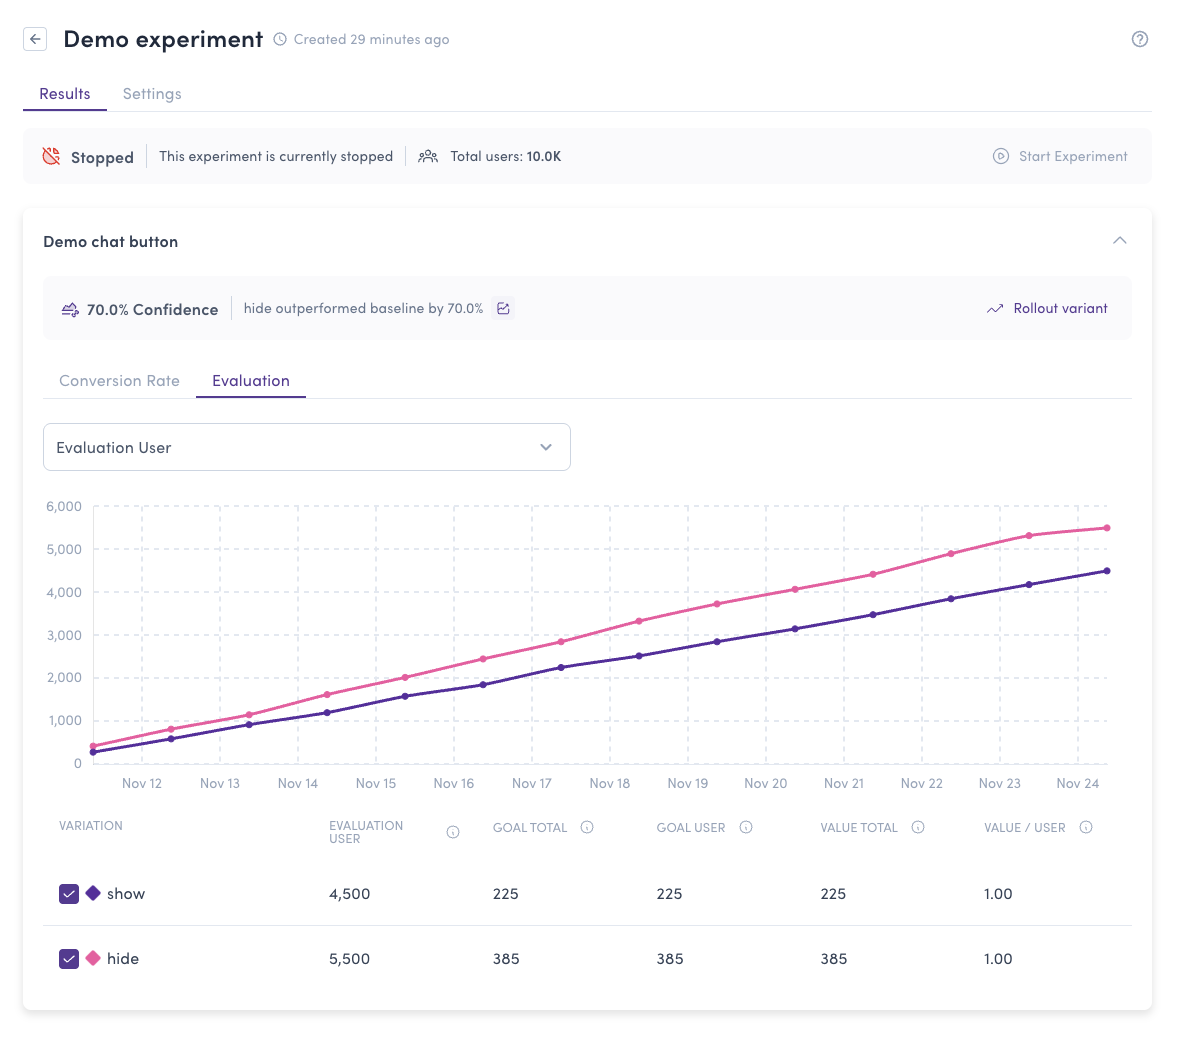
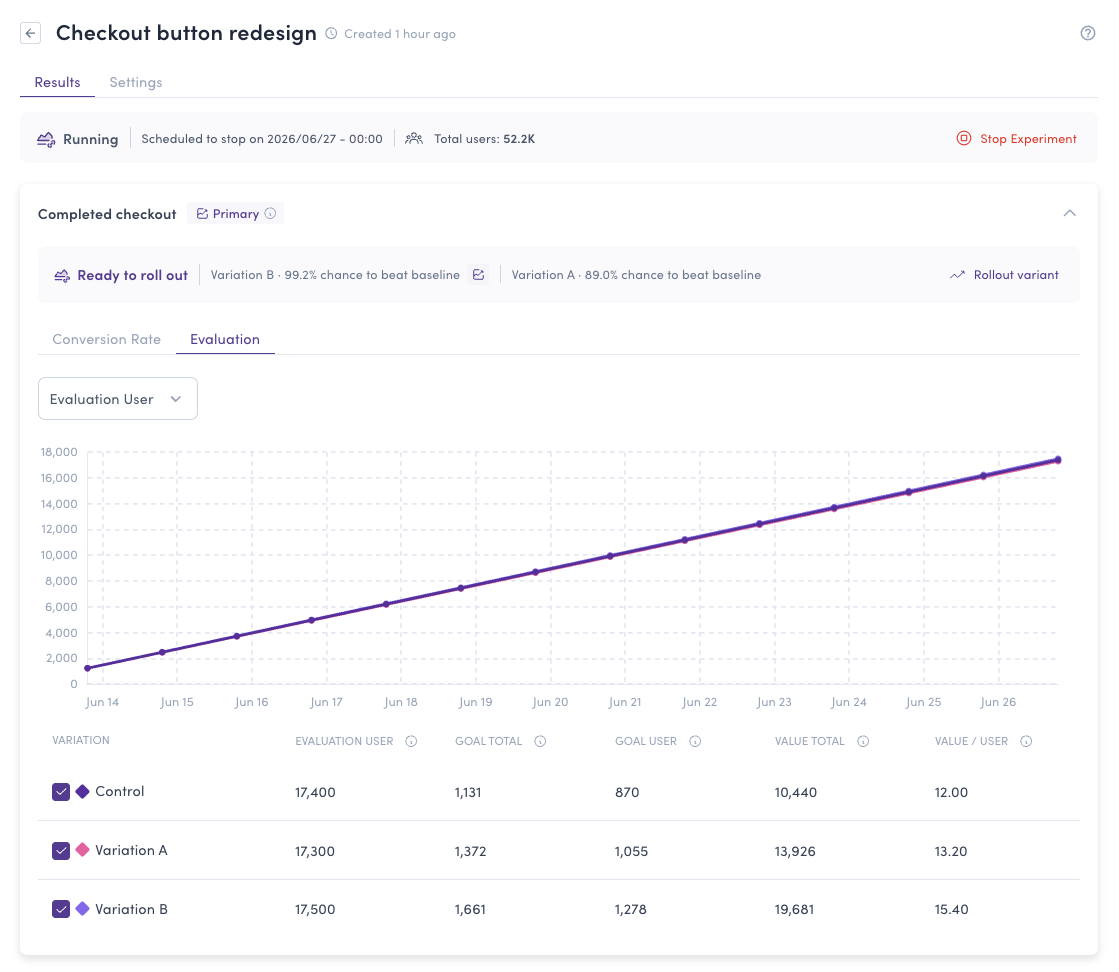
docs: update experiment docs (#296)

Pull request: docs: update experiment docs

diff --git a/docs/experimentation/using-experiments.md b/docs/experimentation/using-experiments.md
@@ -30,11 +30,12 @@ The experiment result page provides comprehensive data to help you make informed
 
 ### Page Components
 
-1. **Experiment header**: Shows the current state (Waiting, Running, Stopped) and evaluation period
-2. **Goal selector**: Choose which goal to analyze if you have multiple goals
-3. **Evaluation data table**: View user and event counts for each variation
-4. **Conversion data table**: Compare performance metrics across variations using Bayesian inference
-5. **Data visualization chart**: Track trends over time for any metric
+1. **Experiment header**: Shows the current state (Waiting, Running, Stopped), the evaluation period, and the total number of users in the experiment
+2. **Traffic allocation check (SRM)**: A diagnostic banner that warns you if the observed traffic split doesn't match the configured split (see [Traffic allocation check](#traffic-allocation-check-srm))
+3. **Goal cards**: Each goal is shown as its own card. The **primary goal** is marked with a **Primary** badge and drives the decision; secondary goals are informational (see [Primary and secondary goals](#primary-and-secondary-goals))
+4. **Evaluation data table**: View user and event counts for each variation
+5. **Conversion data table**: Compare performance metrics across variations using Bayesian inference
+6. **Data visualization chart**: Track trends over time for any metric
 
 ### Evaluation Metrics
 
@@ -55,7 +56,12 @@ The evaluation table shows fundamental data for each variation:
 
 ### Conversion Rate Analysis
 
-When you have sufficient data, Bucketeer displays a confidence indicator showing which variation is winning. This banner appears at the top of the results and provides a quick summary of the experiment's outcome.
+The primary goal card shows a status banner that summarizes the experiment's outcome at a glance:
+
+- **Ready to roll out**: A variation has accumulated enough evidence that it's safe to stop the experiment and roll it out. The **Rollout variant** action becomes available.
+- **Collecting data**: The experiment hasn't reached a reliable stopping point yet. Keep it running.
+
+The banner is metric-aware: it reflects the metric you're currently viewing (Conversion Rate or Value/User). It is shown only on the **primary goal** — secondary goals display their results without a ship recommendation.
 
 <CenteredImg
   imgURL="img/experimentation/experiments/experiment-result-converstion-rate.png"
@@ -67,10 +73,14 @@ When you have sufficient data, Bucketeer displays a confidence indicator showing
 The conversion rate table uses Bayesian inference to help identify the best-performing variation:
 
 - **Conversion Rate** or **Value/User**: The primary metric being analyzed
-- **Improvement**: How much better this variation performs compared to the baseline. Calculated by comparing the range of values for the variation against the baseline range
+- **Improvement**: The relative lift of this variation versus the baseline, calculated as `(variation − baseline) / baseline` and shown as a signed percentage (for example, `+12.5%`). It reflects the metric currently displayed and shows an em dash (`—`) when the baseline is zero
 - **Probability to Beat Baseline**: The estimated likelihood that this variation outperforms the baseline. We recommend a minimum of 95% confidence
 - **Probability to Be Best**: The probability that this variation is the top performer among all variations. We recommend a minimum of 95% confidence
 - **Expected Loss**: The average opportunity cost of choosing this variation if it's not actually the best. A lower expected loss means less risk of missing out on better performance
+
+:::info Safe to check anytime (peeking protection)
+A high *Probability to Beat Baseline* is a single-look snapshot. Repeatedly checking an experiment and stopping as soon as a threshold is crossed inflates false positives. The **Ready to roll out** status uses an always-valid (sequential) test, so it stays trustworthy no matter how often you look — `Collecting data` means "more data needed for a peek-proof verdict", not necessarily "no difference".
+:::
 
 :::info Understanding Expected Loss
 
@@ -101,11 +111,33 @@ The chart at the bottom allows you to visualize any metric over time. You can:
 - Toggle variations on/off to focus your analysis
 - Observe trends and patterns throughout the experiment duration
 
+### Primary and secondary goals
+
+When an experiment has multiple goals, only the **primary goal** drives the decision:
+
+- The primary goal's card carries a **Primary** badge and shows the "Ready to roll out" / "Collecting data" banner and the rollout action.
+- **Secondary goals** show the same charts and tables, but instead of a ship recommendation they display a note that the metric is informational. Use them to learn and to watch for side effects, not to decide.
+
+Basing the decision on a single primary metric is what keeps results trustworthy when several metrics are tracked — see [Primary and secondary goals](/feature-flags/testing-with-flags/experiments#primary-and-secondary-goals) for why.
+
+### Traffic allocation check (SRM)
+
+Bucketeer automatically checks whether the **observed** traffic split across variations matches the **intended** split. A large mismatch (called a Sample Ratio Mismatch, or SRM) usually signals a bucketing or configuration problem that can invalidate the results.
+
+- **No banner**: The split looks healthy — nothing to do.
+- **Mismatch warning**: The observed counts differ significantly from the configured allocation. Treat the results with caution and inspect the per-variation breakdown to see which variations are affected.
+- **Check skipped note**: The check couldn't run (for example, the flag has no rollout split, or there aren't enough users yet). The reason is shown so you can tell why.
+
+:::tip Investigate mismatches before trusting results
+If you see a traffic allocation mismatch, fix the underlying cause (targeting rules, rollout weights, SDK setup) before acting on the experiment's outcome.
+:::
+
 ## Making Decisions
 
 Use Bayesian inference results to make data-driven decisions:
 
-1. **Clear winner**: If one variation has >95% probability on both metrics and low expected loss, it's ready to roll out
-2. **Needs more time**: If no clear winner emerges, extend the experiment or wait for more data
+1. **Clear winner**: If the **primary goal** shows "Ready to roll out" — a variation with a high probability to beat baseline and to be best, plus low expected loss — it's safe to stop and roll out
+2. **Needs more time**: If the primary goal still says "Collecting data", extend the experiment or wait for more data, even if the probabilities already look high
 3. **No significant difference**: If variations perform similarly, consider other factors (implementation complexity, maintenance cost)
-4. **Multiple goals**: Compare results across different goals to ensure the winning variation doesn't negatively impact other metrics
+4. **Watch your guardrails**: Use secondary goals to ensure the winning variation doesn't negatively impact other metrics, but make the ship/no-ship call on the primary goal
+5. **Check traffic allocation**: If an SRM mismatch is flagged, resolve it before trusting any of the above

diff --git a/docs/experimentation/experiments.md b/docs/experimentation/experiments.md
@@ -32,8 +32,8 @@ When creating an experiment, you need to provide:
 - **Name**: A unique identifier for the experiment
 - **Description**: Detailed information about the experiment's objective
 - **Feature flag**: The flag that will be evaluated by the experiment. Each experiment uses one feature flag, but a flag can be used in multiple experiments
-- **Baseline variation**: The reference variation used for comparison in the Bayesian inference algorithm
-- **Goals**: One or more goals to measure in the experiment. Multiple goals allow you to track different aspects of user behavior
+- **Baseline variation**: The reference variation (control group) used for comparison in the Bayesian inference algorithm
+- **Goals**: One or more goals to measure in the experiment. The first goal you add is the **primary goal**, and the rest are **secondary goals** (see below). Multiple goals allow you to track different aspects of user behavior
 - **Start at**: When the experiment begins collecting data
 - **Stop at**: When the experiment stops. Maximum experiment duration is 30 days
 
@@ -44,8 +44,23 @@ When creating an experiment, you need to provide:
   borderWidth="1px"
 />
 
+After you select your goals, they appear in a list. The first goal is marked with a **Primary** badge. The primary goal is the metric that decides the experiment — it drives the "Ready to roll out" recommendation on the results page — while the others are tracked for insight only. You can change which goal is primary by adjusting the order in which goals are selected.
+
 :::tip Recommended test interval
 The Bucketeer team recommends running experiments for at least two weeks to collect sufficient data and increase the experiment's reliability.
+:::
+
+## Primary and secondary goals
+
+When an experiment has more than one goal, exactly one of them drives the decision:
+
+- **Primary goal**: The single metric the experiment is designed to improve (sometimes called the Overall Evaluation Criterion). On the results page it carries a **Primary** badge, and only this goal shows the "Ready to roll out" recommendation and the rollout action. The first goal you attach is the primary goal.
+- **Secondary goals**: All other goals. Their full results are still computed and displayed so you can learn from them, but they are informational only and do not drive the ship decision.
+
+This mirrors how leading experimentation platforms work, and it protects you from the **multiple-comparisons problem**: the more metrics you check, the more likely one looks like a winner purely by chance. Deciding on a single primary metric up front keeps your conclusions trustworthy.
+
+:::tip Choose your primary goal before you start
+Decide which metric matters most before running the experiment, and add it as the first goal. Looking across many metrics after the fact and picking the one that "won" is a common way to fool yourself.
 :::
 
 ## When to use multiple goals
@@ -54,6 +69,6 @@ Multiple goals help you understand the complete user journey by tracking differe
 
 - **Identify drop-off points**: See where users lose interest or encounter issues
 - **Track conversion funnels**: Measure progression through critical steps
-- **Detect side effects**: Ensure winning variations don't negatively impact other metrics
+- **Detect side effects**: Ensure winning variations don't negatively impact other metrics (use secondary goals as guardrails)
 
-For example, if testing a checkout flow, you might track: "Added to Cart", "Viewed Checkout", and "Completed Purchase". This reveals not just which variation has the best completion rate, but also where users drop off in the process.
+For example, if testing a checkout flow, you might set "Completed Purchase" as the primary goal and track "Added to Cart" and "Viewed Checkout" as secondary goals. This reveals not just which variation has the best completion rate, but also where users drop off in the process.

diff --git a/docs/experimentation/index.md b/docs/experimentation/index.md
@@ -10,6 +10,6 @@ Testing with feature flags allows you to experiment and gather insights about yo
 
 - [Goals](/feature-flags/testing-with-flags/goals): Goals in the Bucketeer system help to measure how user behaviors are affected by feature flags within experiments.
 - [Experiments](/feature-flags/testing-with-flags/experiments): Experiments are a way to test new features or changes with a subset of users before a full release. They allow you to collect data and feedback to improve the feature's effectiveness. 
-- [Experiment results](/feature-flags/testing-with-flags/experiment-results): After creating an experiment, you can access the experiment result page. It shows the experiment's current state, evaluation period, and provides components for analysis. The Bucketeer system uses Bayesian inference to suggest the best-performing variation.
+- [Experiment results](/feature-flags/testing-with-flags/experiment-results): After creating an experiment, you can access the experiment result page. It shows the experiment's current state, evaluation period, and provides components for analysis. The Bucketeer system uses Bayesian inference — with a primary-metric decision, peeking-safe stopping, and a traffic-allocation (SRM) check — to suggest the best-performing variation.
 
 By utilizing goals, running experiments, and analyzing the results, you can make data-driven decisions to optimize features, improve user experience, and achieve desired business outcomes.